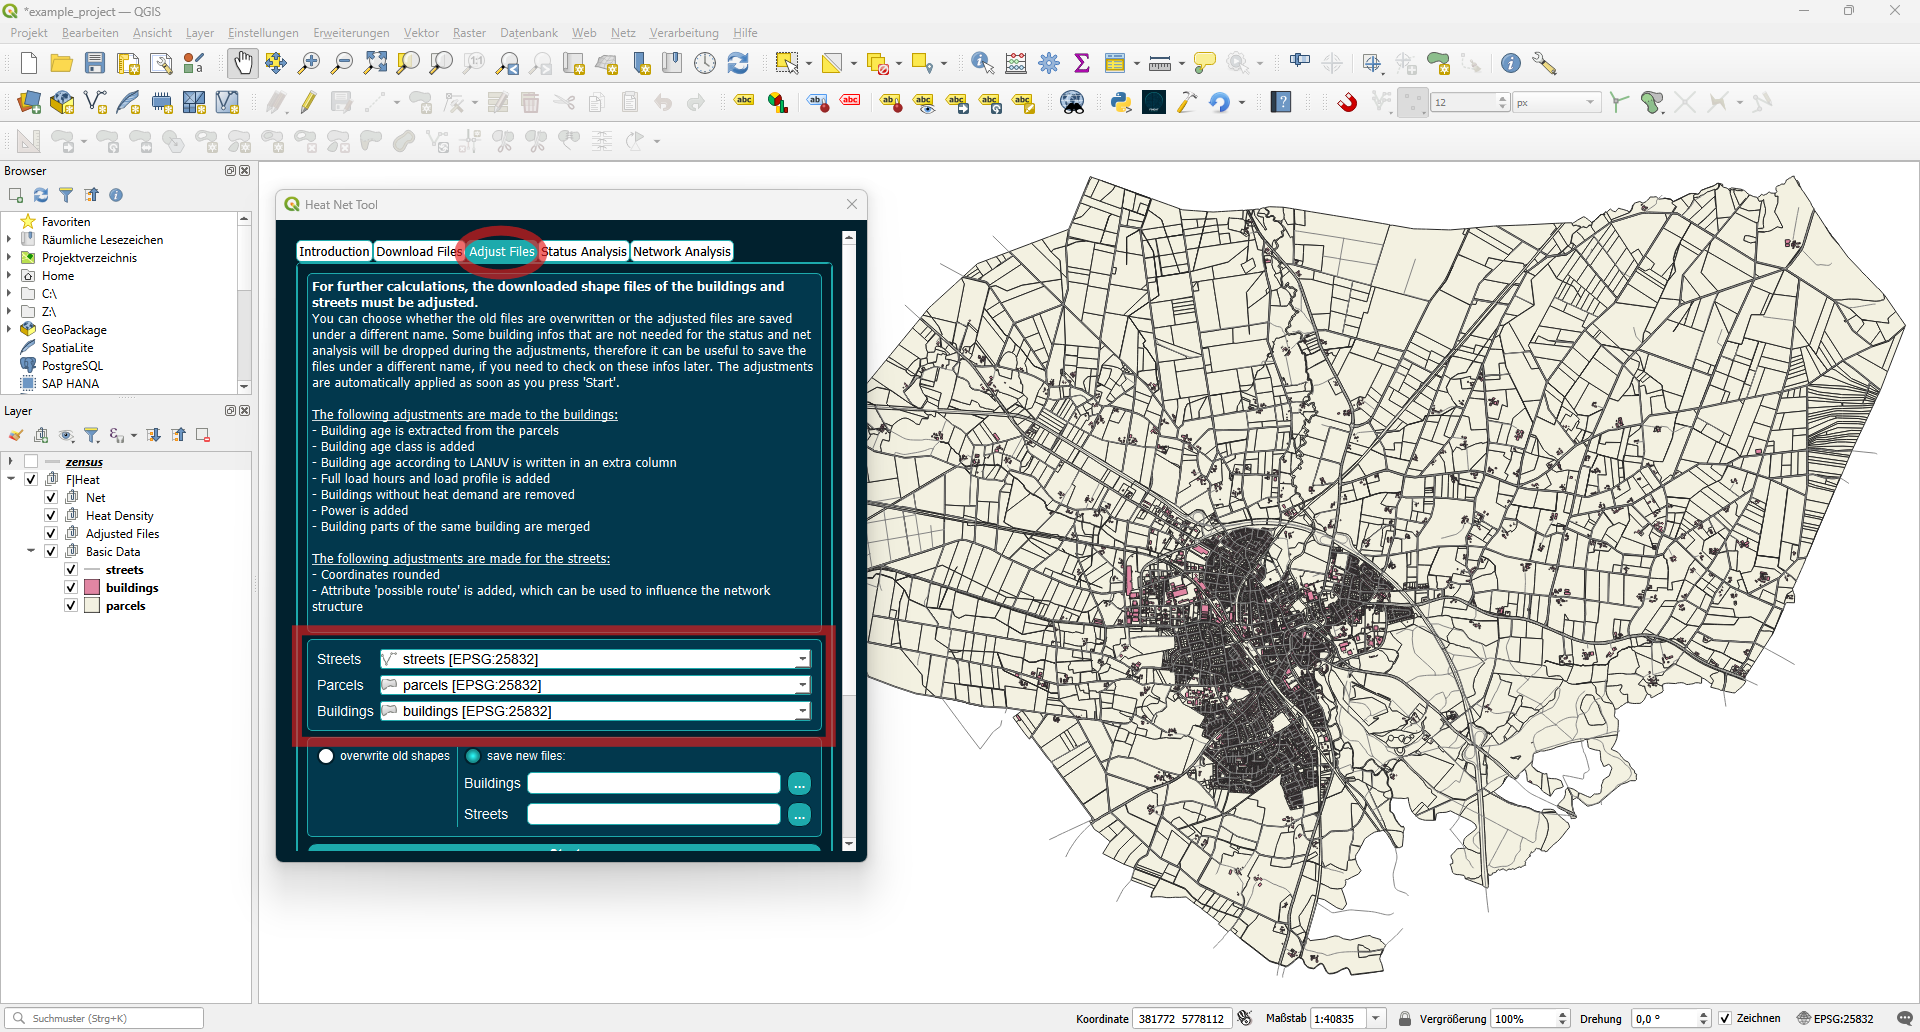
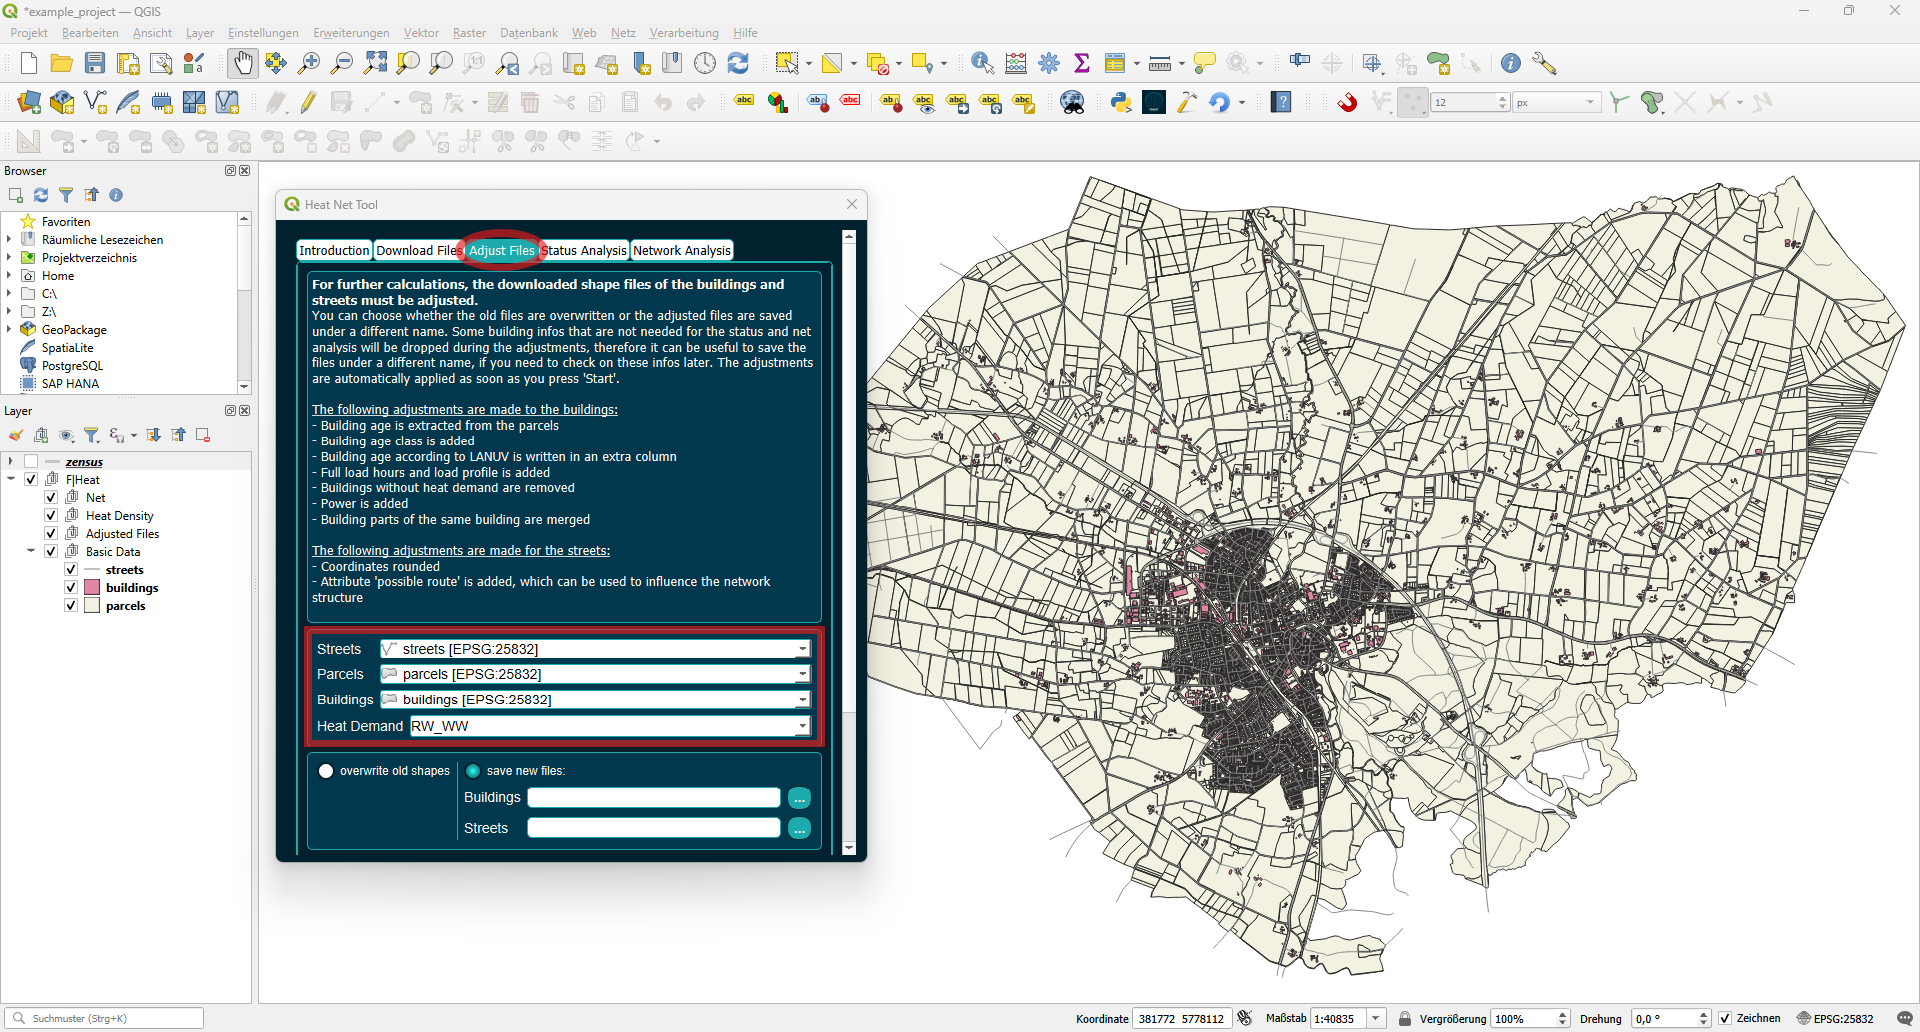
update read the docs example

Changed region(s): [[0.125, 0.2171, 0.4375, 0.8372]]

diff --git a/docs/example.rst b/docs/example.rst
@@ -75,7 +75,7 @@ The full procedure is shown here using a complete example.
         :align: center
 
 
-#. For further calculations, the downloaded shapefiles of the buildings and streets must be adjusted. Toggle the dropdown lists to select the correct layers for streets, parcels and buildings.
+#. For further calculations, the downloaded shapefiles of the buildings and streets must be adjusted. Toggle the dropdown lists to select the correct layers for streets, parcels and buildings. Choose the desired attribute of the buildings layer as heat demand. For the downloaded data, you can choose RW_WW where RW = Raumwärme(space heating) and WW = Warmwasser(water heating) are combined.
 
     .. figure:: images//example/5adjust.png
         :alt: 5adjsut.png
